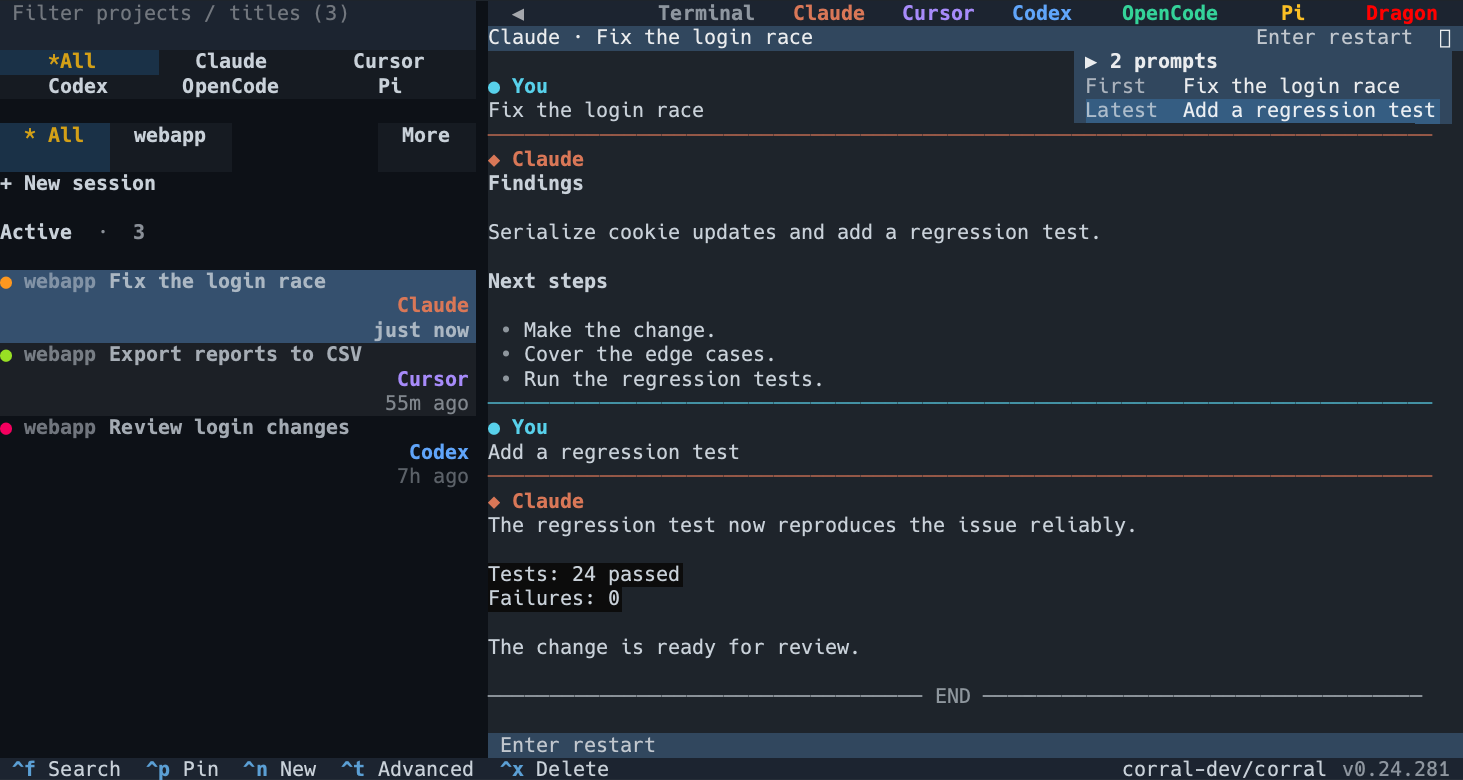
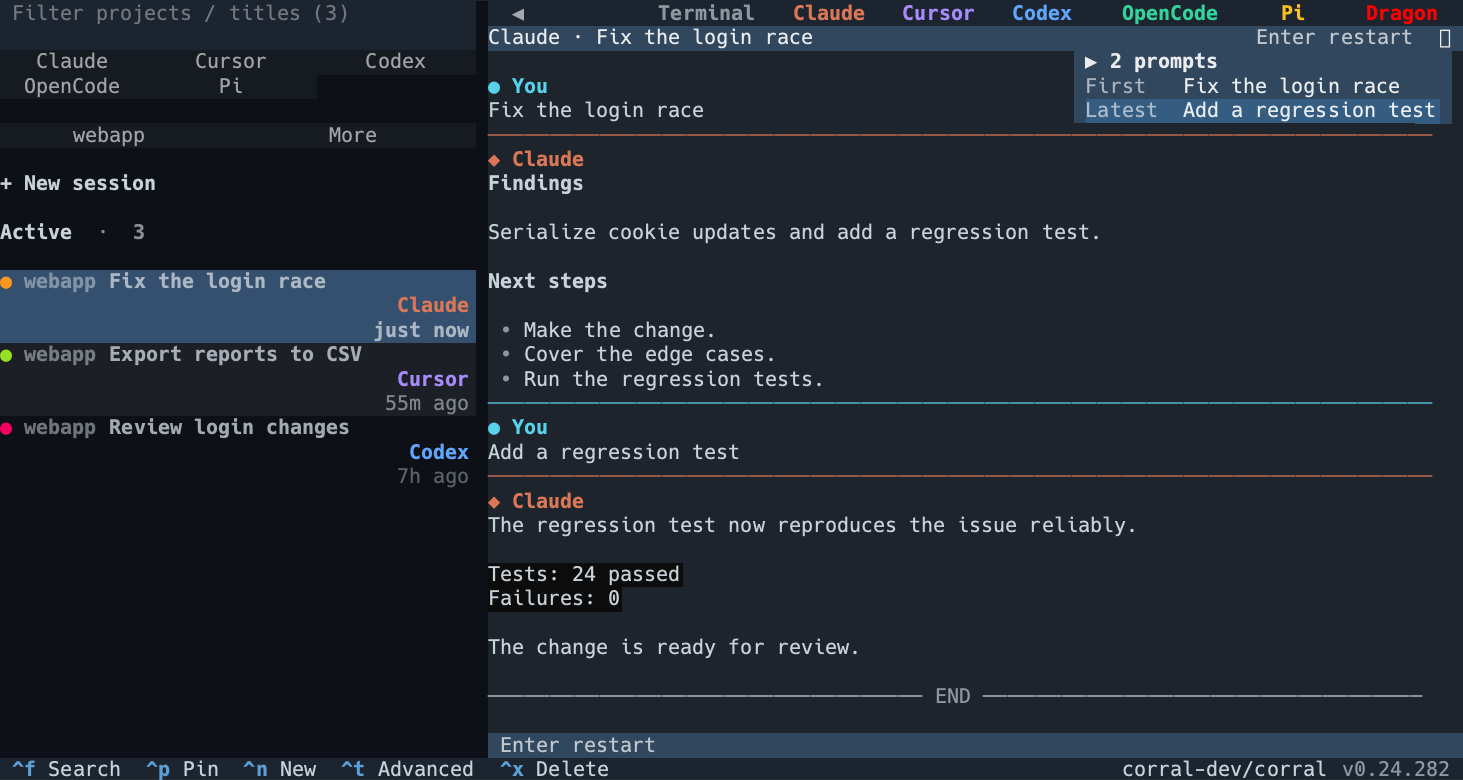
release: v0.24.282 correct terminal quick-filter layout and selection

diff --git a/src/corral/ui/quick_filters.py b/src/corral/ui/quick_filters.py
@@ -7,7 +7,7 @@ import asyncio
 from rich.text import Text
 from textual import events
 from textual.app import ComposeResult
-from textual.containers import Grid, Horizontal, HorizontalScroll, Vertical
+from textual.containers import Grid, Horizontal, Vertical
 from textual.message import Message
 from textual.screen import ModalScreen
 from textual.widgets import Button, Input, Label, SelectionList
@@ -46,6 +46,7 @@ class ProjectFilterModal(ModalScreen[None]):
     ProjectFilterModal Input { height: 2; border: none; padding: 0 0 1 0; }
     ProjectFilterModal Input:focus { border: none; }
     ProjectFilterModal SelectionList { height: auto; min-height: 3; max-height: 12; border: none; }
+    ProjectFilterModal SelectionList:focus { border: none; }
     ProjectFilterModal Horizontal { height: 1; }
     ProjectFilterModal Button { height: 1; min-width: 8; border: none; }
     """
@@ -62,7 +63,6 @@ class ProjectFilterModal(ModalScreen[None]):
             yield Input(placeholder=t("filter.projects_search"), id="projects-query")
             yield SelectionList(*self._selections(""), id="projects-choices")
             with Horizontal():
-                yield Button(t("filter.all"), compact=True, id="projects-clear")
                 yield Button(t("filter.done"), compact=True, id="projects-done")
 
     def on_mount(self) -> None:
@@ -79,6 +79,7 @@ class ProjectFilterModal(ModalScreen[None]):
         with choices.prevent(SelectionList.SelectedChanged):
             choices.clear_options()
             choices.add_options(self._selections(event.value))
+            choices.highlighted = 0 if choices.option_count else None
 
     def on_input_submitted(self, event: Input.Submitted) -> None:
         self.query_one(SelectionList).focus()
@@ -98,38 +99,33 @@ class ProjectFilterModal(ModalScreen[None]):
     def on_button_pressed(self, event: Button.Pressed) -> None:
         if event.button.id == "projects-done":
             self.dismiss(None)
-        elif event.button.id == "projects-clear":
-            self.owner.nav.project_filters.clear()
-            self.owner.changed()
-            with self.query_one(SelectionList).prevent(SelectionList.SelectedChanged):
-                self.query_one(SelectionList).deselect_all()
 
 
 class QuickFilters(Vertical):
     DEFAULT_CSS = """
     QuickFilters { height: 5; }
-    QuickFilters Horizontal, QuickFilters HorizontalScroll {
-        height: 2; scrollbar-size: 0 0;
-    }
-    QuickFilters HorizontalScroll { width: 1fr; }
-    QuickFilters Button {
-        width: auto; min-width: 3; height: 2; padding: 0 1 1 1;
-        border: none; margin: 0; background: $surface; color: $text-muted;
-        text-style: none;
-    }
-    QuickFilters #runtime-quick-row {
-        height: 3; grid-size: 3; grid-rows: 1; grid-columns: 1fr;
-        padding: 0 0 1 0;
-    }
-    QuickFilters #runtime-quick-row Button {
+    QuickFilters Grid { grid-rows: 1; grid-columns: 1fr; }
+    QuickFilters #runtime-quick-row { height: 3; grid-size: 3; padding: 0 0 1 0; }
+    QuickFilters #project-quick-row { height: 2; grid-size: 2; }
+    QuickFilters Button.-style-default {
         width: 1fr; min-width: 2; height: 1; padding: 0;
+        border: none; margin: 0; background: $surface; color: $text-muted;
+        text-style: none; tint: transparent; background-tint: transparent;
     }
-    QuickFilters Button:focus { text-style: bold underline; background-tint: transparent; }
-    QuickFilters Button.-chosen {
+    QuickFilters Button.-style-default:hover,
+    QuickFilters Button.-style-default:focus,
+    QuickFilters Button.-style-default.-active {
+        background: $surface; color: $text-muted;
+        border: none; tint: transparent; background-tint: transparent;
+    }
+    QuickFilters Button.-style-default:focus { text-style: underline; }
+    QuickFilters Button.-chosen,
+    QuickFilters Button.-chosen.-style-default:hover,
+    QuickFilters Button.-chosen.-style-default:focus,
+    QuickFilters Button.-chosen.-style-default.-active {
         background: $primary-muted; color: $warning; text-style: bold;
     }
-    QuickFilters Button:hover { background: $boost; }
-    QuickFilters Button.-chosen:hover { background: $primary-muted; }
+    QuickFilters Button.-chosen.-style-default:focus { text-style: bold underline; }
     """
 
     def __init__(self, store, nav: NavState, **kwargs) -> None:
@@ -142,13 +138,10 @@ class QuickFilters(Vertical):
 
     def compose(self) -> ComposeResult:
         with Grid(id="runtime-quick-row"):
-            yield Button(t("filter.all"), id="runtime-all", tooltip=t("filter.all_agents"), compact=True)
             for runtime in active_runtimes(self.store.registry):
                 label = "Claude" if runtime.id == "claude" else runtime.display_name
                 yield Button(label, id=f"runtime-{runtime.id}", compact=True)
-        with Horizontal():
-            with HorizontalScroll(id="project-quick-row"):
-                yield Button(t("filter.all"), id="project-all", tooltip=t("filter.all_projects"), compact=True)
+        with Grid(id="project-quick-row"):
             yield Button(t("filter.more"), id="project-more", compact=True)
 
     def on_mount(self) -> None:
@@ -170,39 +163,31 @@ class QuickFilters(Vertical):
     async def _sync(self) -> None:
         for button in self.query("#runtime-quick-row Button"):
             runtime = button.id.removeprefix("runtime-")
-            chosen = not self.nav.runtime_filters if runtime == "all" else runtime in self.nav.runtime_filters
-            self._mark(button, chosen)
+            self._mark(button, runtime in self.nav.runtime_filters)
         options = self.all_projects()
         labels = dict(options)
         # Keep surviving choices in place while filling vacancies from recent data.
         self._recent = [path for path in self._recent if path in labels]
         self._recent += [path for path, _ in options if path not in self._recent][:max(0, 3 - len(self._recent))]
-        paths = list(dict.fromkeys(self._recent + sorted(self.nav.project_filters)))
+        paths = list(dict.fromkeys(sorted(self.nav.project_filters) + self._recent))[:3]
         signature = tuple((path, labels[path]) for path in paths)
-        row = self.query_one("#project-quick-row", HorizontalScroll)
+        row = self.query_one("#project-quick-row", Grid)
+        more = self.query_one("#project-more", Button)
         if signature != self._project_signature:
             await row.query(".project-choice").remove()
-            await row.mount(*[Button(fit_cell(labels[path], 16).rstrip(), name=path,
+            await row.mount(*[Button(fit_cell(labels[path], 16, ellipsis=True).rstrip(), name=path,
                                     id=f"project-choice-{i}", classes="project-choice",
                                     tooltip=path or t("filter.no_project"), compact=True)
-                              for i, path in enumerate(paths)])
+                              for i, path in enumerate(paths)], before=more)
             self._project_signature = signature
-        self._mark(self.query_one("#project-all", Button), not self.nav.project_filters)
+        count = len(self.nav.project_filters)
+        more.label = t("filter.more") + (f" ({count})" if count else "")
         for button in row.query(".project-choice"):
             self._mark(button, button.name in self.nav.project_filters)
 
     @staticmethod
     def _mark(button: Button, selected: bool) -> None:
         button.set_class(selected, "-chosen")
-        # ASCII survives terminal fonts; preserve project names beginning with '*'.
-        if not hasattr(button, "_quick_filter_label"):
-            button._quick_filter_label = str(button.label)
-        label = button._quick_filter_label
-        prefix = "*" if button.id.startswith("runtime-") else "* "
-        next_label = (prefix if selected else "") + label
-        if str(button.label) != next_label:
-            button.label = Text(next_label)
-            button.refresh(layout=True)
 
     def changed(self) -> None:
         self.call_next(self.sync)
@@ -217,7 +202,7 @@ class QuickFilters(Vertical):
             delta = {"left": -1, "right": 1, "up": -3, "down": 3}.get(event.key)
         elif focused.parent.id == "project-quick-row":
             buttons = list(self.query("#project-quick-row Button"))
-            delta = {"left": -1, "right": 1}.get(event.key)
+            delta = {"left": -1, "right": 1, "up": -2, "down": 2}.get(event.key)
         else:
             return
         if delta is not None:
@@ -236,9 +221,7 @@ class QuickFilters(Vertical):
         else:
             selected = self.nav.project_filters
             value = button.name
-        if button.id in ("runtime-all", "project-all"):
-            selected.clear()
-        elif value in selected:
+        if value in selected:
             selected.remove(value)
         else:
             selected.add(value)

diff --git a/tests/test_ui.py b/tests/test_ui.py
@@ -4476,7 +4476,8 @@ class MainScreenNavigationTests(unittest.IsolatedAsyncioTestCase):
             await pilot.pause()
             self.assertEqual({s["id"] for s in view.visible_sessions()}, {"f0", "f2"})
             self.assertEqual(area.ordered_session_keys(), before)
-            await pilot.click("#runtime-all")
+            await pilot.click("#runtime-codex")
+            await pilot.click("#runtime-claude")
             await pilot.pause()
             self.assertEqual(app.screen.nav.project_filters, {"/tmp/alpha"})
             self.assertEqual(app.screen.nav.runtime_filters, set())
@@ -4491,6 +4492,56 @@ class MainScreenNavigationTests(unittest.IsolatedAsyncioTestCase):
             self.assertEqual(app.screen.nav.runtime_filters, set())
             self.assertEqual(app.screen.nav.project_filters, {"/tmp/alpha"})
             self.assertIn("f0", {s["id"] for s in view.visible_sessions()})
+
+    async def test_quick_filters_single_line_visible_and_color_only_under_focus_hover(self) -> None:
+        from textual.widgets import Button
+
+        from corral.ui.quick_filters import QuickFilters
+
+        sessions = [_claude_session(f"q{i}", time.time() - i) for i in range(6)]
+        paths = ["/tmp/Codes", "/tmp/Corral", "/tmp/agent-runtime-long-name", "/tmp/other", "/tmp/fifth", "/tmp/sixth"]
+        for session, path in zip(sessions, paths, strict=True):
+            session["cwd"] = path
+        runtimes = []
+        for rid, label in [("codex", "Codex"), ("opencode", "OpenCode"), ("cursor", "Cursor"), ("pi", "Pi")]:
+            runtime = mock.Mock()
+            runtime.id, runtime.display_name = rid, label
+            runtime.scan_sessions.return_value = []
+            runtimes.append(runtime)
+        store, _ = _make_store(sessions, extra_runtimes=tuple(runtimes))
+        app = CorralApp(store, embed_ok=False)
+        async with app.run_test(size=(120, 32)) as pilot:
+            await pilot.pause(delay=0.3)
+            filters = app.screen.query_one(QuickFilters)
+            for row_id in ("runtime-quick-row", "project-quick-row"):
+                row = filters.query_one(f"#{row_id}")
+                for button in row.query(Button):
+                    self.assertEqual(button.region.height, 1)
+                    self.assertTrue(row.region.contains_region(button.region))
+                    self.assertNotIn("*", str(button.label))
+                    self.assertNotEqual(str(button.label), "All")
+            codex = filters.query_one("#runtime-codex", Button)
+            pi = filters.query_one("#runtime-pi", Button)
+            await pilot.click("#runtime-codex")
+            await pilot.pause(delay=0.2)
+            selected_colors = (codex.styles.color, codex.styles.background)
+            neutral_colors = (pi.styles.color, pi.styles.background)
+            pi.focus()
+            await pilot.hover("#runtime-pi")
+            await pilot.pause(delay=0.2)
+            self.assertEqual((pi.styles.color, pi.styles.background), neutral_colors)
+            self.assertNotEqual(neutral_colors, selected_colors)
+            self.assertEqual(str(codex.label), "Codex")
+            self.assertFalse(pi.has_class("-chosen"))
+            # Selections beyond the recent choices remain reachable in the fixed grid.
+            filters.nav.project_filters = set(paths[3:])
+            await filters.sync()
+            await pilot.pause()
+            self.assertEqual({button.name for button in filters.query(".project-choice")}, set(paths[3:]))
+            self.assertEqual(str(filters.query_one("#project-more", Button).label), "More (3)")
+            for button in filters.query(".project-choice"):
+                self.assertEqual(button.region.height, 1)
+                self.assertTrue(filters.region.contains_region(button.region))
 
     async def test_project_more_search_preserves_hidden_selections_and_full_paths(self) -> None:
         from textual.widgets import SelectionList
@@ -4516,7 +4567,7 @@ class MainScreenNavigationTests(unittest.IsolatedAsyncioTestCase):
             await pilot.pause()
             choices = app.screen.query_one(SelectionList)
             self.assertEqual(choices.option_count, 1)
-            choices.select(paths[1])
+            await pilot.press("down", "space")
             await pilot.pause()
             self.assertEqual(owner.nav.project_filters, {paths[0], paths[1]})
             await pilot.press("escape")

diff --git a/src/corral/ui/session_list.py b/src/corral/ui/session_list.py
@@ -822,7 +822,7 @@ class ActiveFilterCard(Widget):
 
     def render(self) -> Text:
         on = self._owner.nav.active_only
-        out = Text("* " if on else "", style="bold")
+        out = Text("", style="bold")
         out.append(t("list.active_filter"), style="bold")
         out.append(f"  ·  {self._owner.active_count()}", style="" if on else "dim")
         return out + Text("\n")

diff --git a/src/corral/__init__.py b/src/corral/__init__.py
@@ -29,7 +29,7 @@ def _wire_sesskit_cache() -> None:
         pass
 
 
-__version__ = "0.24.281"
+__version__ = "0.24.282"
 
 _MODULE_EXPORTS = {
     "embed", "keepalive", "liveness", "titles", "updater", "split_layout", "observe", "theme", "search",

diff --git a/docs/TERMINAL_UI_KNOWLEDGE_BASE.md b/docs/TERMINAL_UI_KNOWLEDGE_BASE.md
@@ -32,7 +32,7 @@ corral 的价值是让用户从一个终端界面中继续或接力不同 Coding
 | 侧边栏会话列表 | 左栏的搜索框、新建入口、会话组三行卡和会话三行卡 | `SessionListView`、`SessionGroupCard`、`SessionCard`、`NewSessionCard` |
 | 筛选项目 | 顶部输入框按组名、项目名、路径和标题筛选会话；有关键字时框体高亮（`-active`） | `NavState.project_query`；不是独立项目列表页；**不搜对话正文** |
 | 全文搜索 | `Ctrl+F` 弹窗，在所有会话的对话正文里找关键词并展示命中行 | `ui/search_modal.py` + `search.py` 的 `ConversationIndex`；与筛选项目是两条路，不是同一个输入框的两种模式 |
-| Runtime and project quick filters | Two fixed filter blocks below text search: a three-column, two-line runtime grid (all five names visible at the 39-column sidebar width), then a horizontally scrollable recent-project row with a fixed More button. Each dimension supports multiple choices (OR within a row); runtime, project, Active and text search intersect. All clears only its own dimension. Recent project choices remain stable across refresh, selected projects stay available, and More opens a searchable complete multi-selection list. | Owner request 2026-10-11: presentation only, never changes open panes, hosts, pins or source sessions. Projects match canonical full directories, with disambiguated labels and a no-project choice. Only the five supported runtimes appear. Filters reset on restart; filtered groups/older sessions expand to expose matches. Reuse the inspected MacSidebarFilters semantics and Textual's installed compact Button, Grid, HorizontalScroll and SelectionList components; terminal controls retain native Tab/Enter activation; arrows move among runtime/project choices, and Down/Enter moves from project search to its multi-selection list. Selected controls use an ASCII asterisk plus theme colors; focus uses text emphasis without a frame. Global full-text result navigation clears text/Active and conflicting runtime/project selections to reveal the chosen session. |
+| Runtime and project quick filters | Two fixed grids below text search: five runtime choices in three columns, then up to three recent/selected projects and More in two columns. Every choice occupies exactly one terminal row; no horizontal scrolling or offscreen choices. Multiple choices combine with OR within a dimension; runtime, project, Active and text search intersect. There are no All entries, including in More. Click/Enter toggles a choice; no selections means unrestricted. Selected choices use the same theme colors, without asterisks or other added markers. Focus uses underline only; hover and press must preserve selection colors and never introduce a white selection-like fill. | Owner correction 2026-10-11 supersedes the horizontal chip row and asterisk design. Presentation only: never changes open panes, hosts, pins or source sessions. Projects match canonical full directories, with disambiguated labels and a no-project choice. Selected projects take priority among the three visible choices; More remains mounted across catalog refreshes and shows the selection count and opens a searchable, vertically scrollable complete list, preserving hidden selections during search. The project list has no focus border. Search results must retain an actionable first row so Down then Space selects a project immediately. Only the five supported runtimes appear. Reuse the inspected native-client filter semantics and Textual compact Button/Grid/SelectionList implementations, with terminal-specific sizing and explicit state styling. Tab/Enter and grid arrows remain available. Filters reset on restart; filtered groups/older sessions expand. Global full-text navigation clears text/Active and conflicting runtime/project selections. Acceptance must include long project names, multiple selected projects, unselected Pi under hover/focus, dark/light themes, and every grid cell inside the 39-column sidebar. |
 | 会话小窗 | 右栏格右上角的悬浮摘要：默认展开列出提问，收起后给"最初 + 最近"两头 | `ui/session_hud.py` 的 `SessionHud`；实时托管格与静态预览格各自一份；不是弹窗、不抢焦点 |
 | 新建会话 | 以选定项目和运行时创建空白会话 | 侧边栏“＋ 新建会话”完整选择流程，或任意焦点按 `Ctrl+N`（与 `Ctrl+F` / `Ctrl+P` 同级的全局键），或右栏顶栏点助手加格；打开弹窗时光标必须在项目筛选框，立刻可打字；单字母 `n` 不绑 |
 | 活跃筛选（Active） | 侧栏固定头第二项是一个**筛选开关**，对外文案 Active / 活跃，带当前人数（「活跃 · N」）；回车或单击切换开/关，方向键经过不触发。开启时侧栏只列活跃会话，与筛选框关键字取交集；开关贴 `-active`（与筛选框同一套 `$warning` 字 + `$primary-muted` 底），页头数量按筛后结果。**成员 = 侧栏画圆点的会话**（`activity_board.resolve_active_marker` 非空：等回话 / 干活 / 未读，或本窗口托管且「刚刚」3 分钟内仍有真实活动），另加右栏当前开着的会话（打开未读会话会变已读，不得因此从列表里被抽走）。不写持久状态，重启后为关 | 2026-10-11 机主裁定：**取消活跃会话看板**（右栏自动铺格、分页、`[` / `]` 翻页、看板空态一并移除），三端（TUI、Mac、iPhone）统一为同一个快捷筛选，口径见 [Mac 设计文档](../../apple/docs/design/MACOS_CLIENT_DESIGN.md#active-quick-filter-selection-clarity-and-capsule-new-session-owner-request-2026-10-11)。**排查「活跃人数和带圆点会话对不上 / 圆点有遗漏 / 青色或蓝色圆点」**：筛选与圆点同源，缺圆点时修 `resolve_active_marker`，不要另立筛选口径；「刚刚」档画绿点，禁止单独画青/蓝。**排查「两格分屏但每格画面只占一半」**：较窄观看方不得压窄共享画面，见 [内嵌实时终端知识库](EMBEDDED_TERMINAL_KNOWLEDGE_BASE.md) §6 多开窗口条 |
